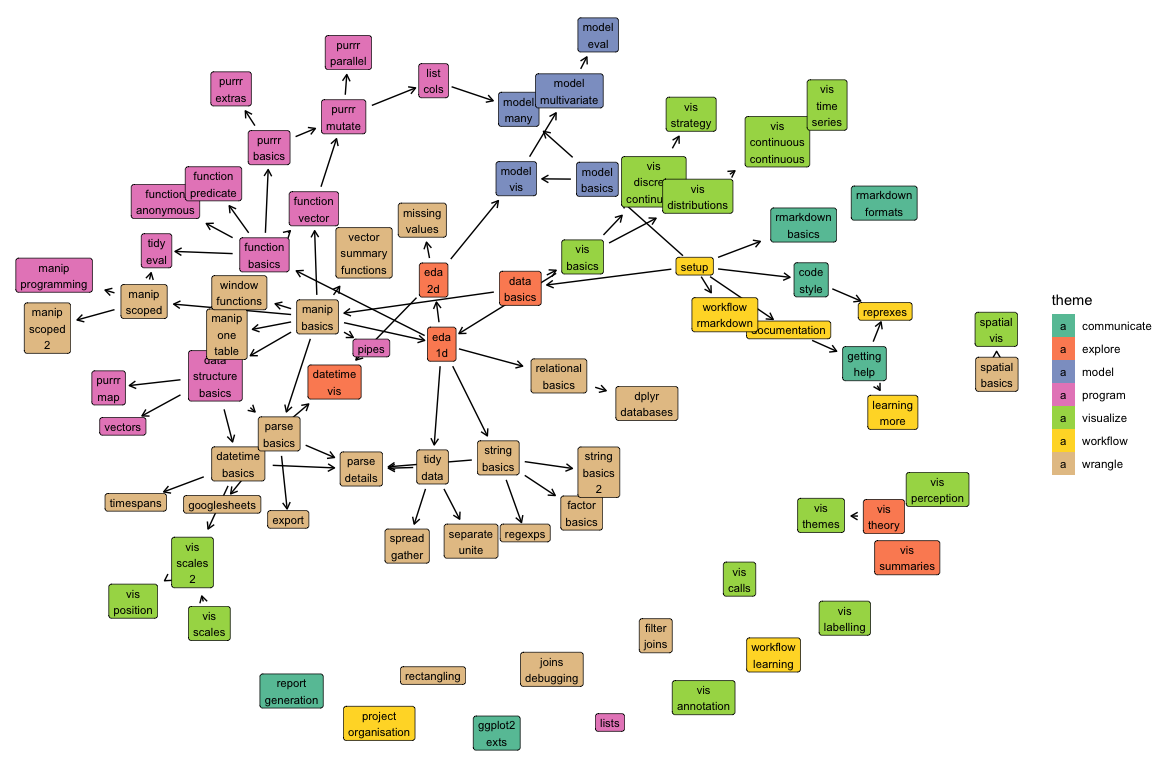
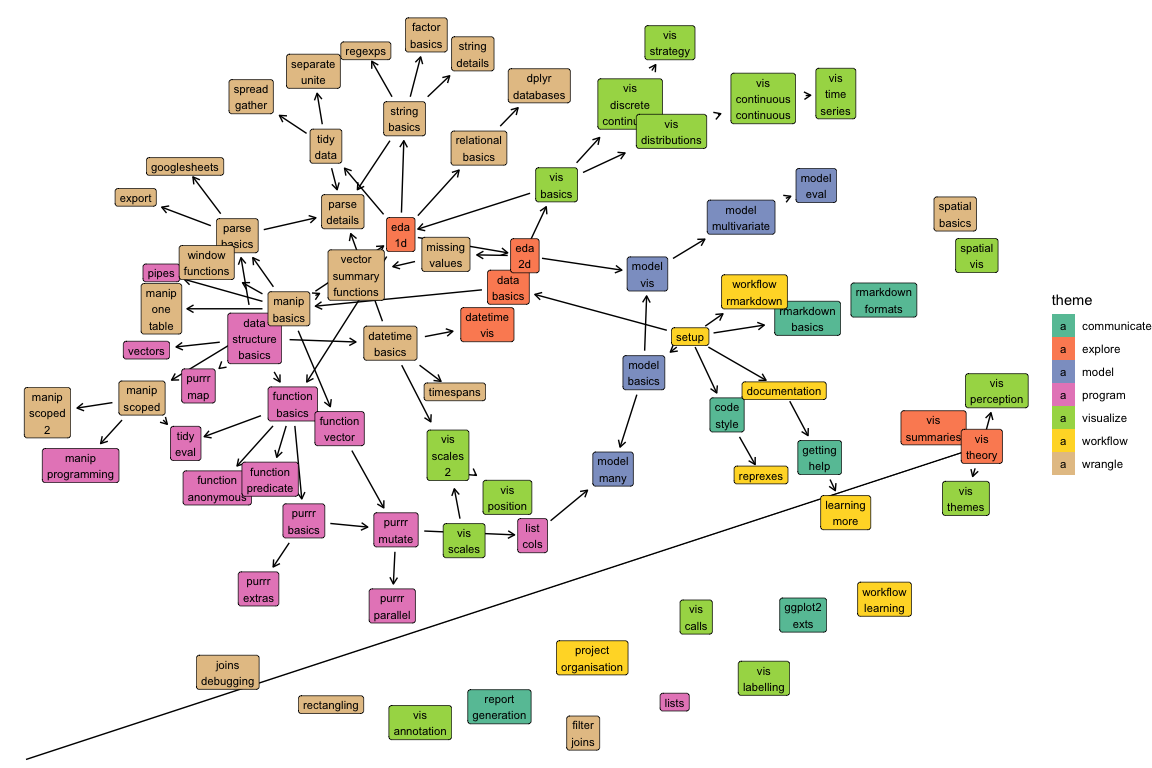
Update for week 8

Changed region(s): [[0.0, 0.0, 0.9062, 1.0], [0.625, 0.7188, 0.6562, 0.7812]]

diff --git a/docs/string-basics.md b/docs/string-basics.md
@@ -6,7 +6,7 @@ title: String basics
 
 # String basics <small class='wrangle'>[wrangle]</small>
 <small>(Builds on: [Exploratory data analysis (1D)](eda-1d.md))</small>  
-<small>(Leads to: [Factor basics](factor-basics.md), [Parsing details](parse-details.md), [Regular expressions](regexps.md), [String basics - glue](string-basics-2.md))</small>
+<small>(Leads to: [Factor basics](factor-basics.md), [Parsing details](parse-details.md), [Regular expressions](regexps.md), [String details](string-details.md))</small>
 
 The basics of string manipulation will give you the ability to create new
 strings by combining existing strings, or by pulling out values at specific

diff --git a/docs/string-details.md b/docs/string-details.md
@@ -1,0 +1,19 @@
+---
+title: String details
+---
+
+<!-- Generated automatically from string-details.yml. Do not edit by hand -->
+
+# String details <small class='wrangle'>[wrangle]</small>
+<small>(Builds on: [String basics](string-basics.md))</small>
+
+The glue package contains the functions `glue()` and `glue_data()` as
+alternates to `str_c()` for combining data and strings. These functions can be
+used without loading the glue package through the stringr functions
+`str_glue()` and `str_glue_data()`, respectively.
+
+## Readings
+
+  * [glue documentation](https://github.com/tidyverse/glue)
+
+

diff --git a/docs/index.md b/docs/index.md
@@ -325,7 +325,7 @@ title: Theme index
 <tr>
 <td></td>
   <td colspan="1"></td>
-  <td colspan="6"><a class="wrangle" href="string-basics-2.html">String basics - glue</a></td>
+  <td colspan="6"><a class="wrangle" href="string-details.html">String details</a></td>
   <td colspan="5"></td>
 </tr>
 <tr>
